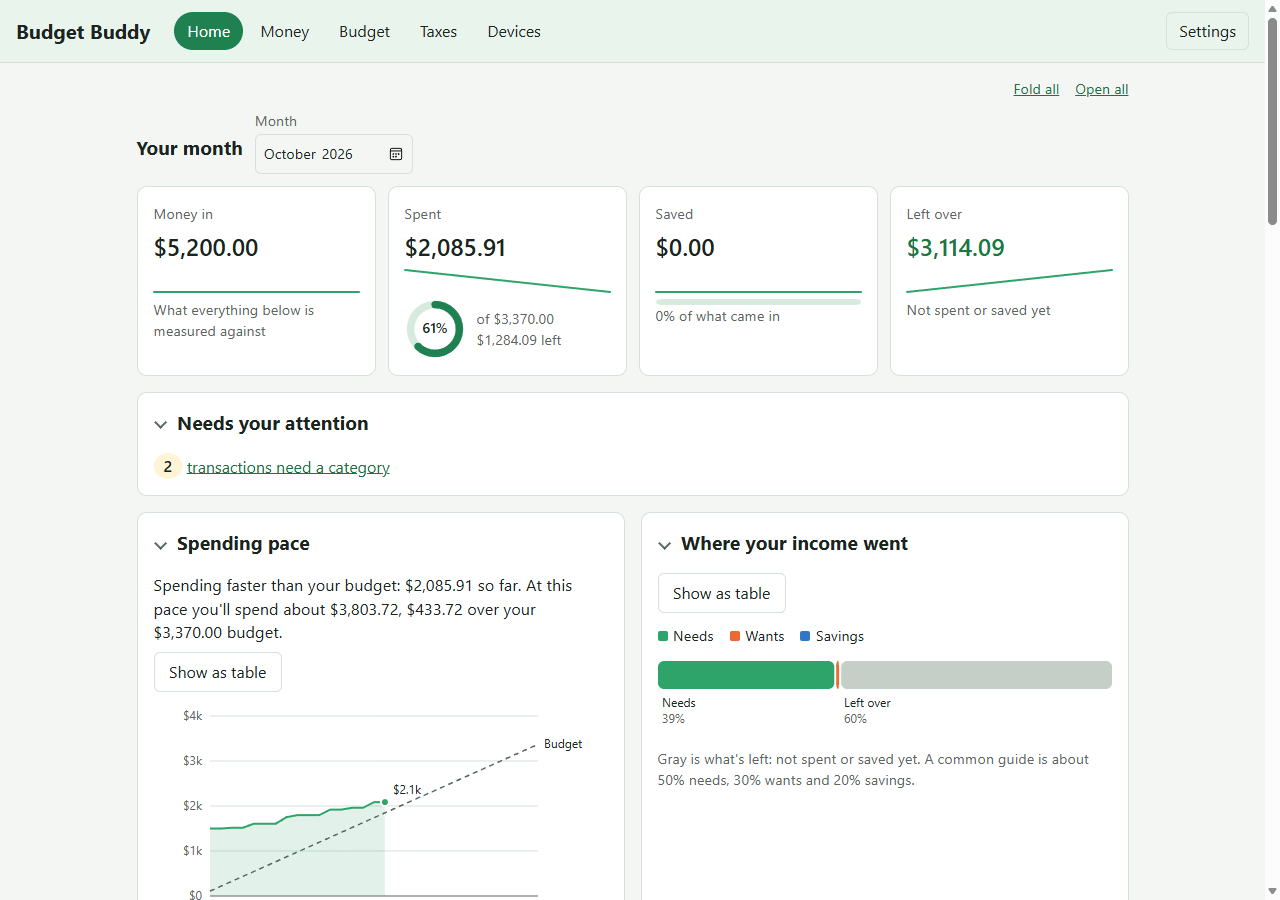
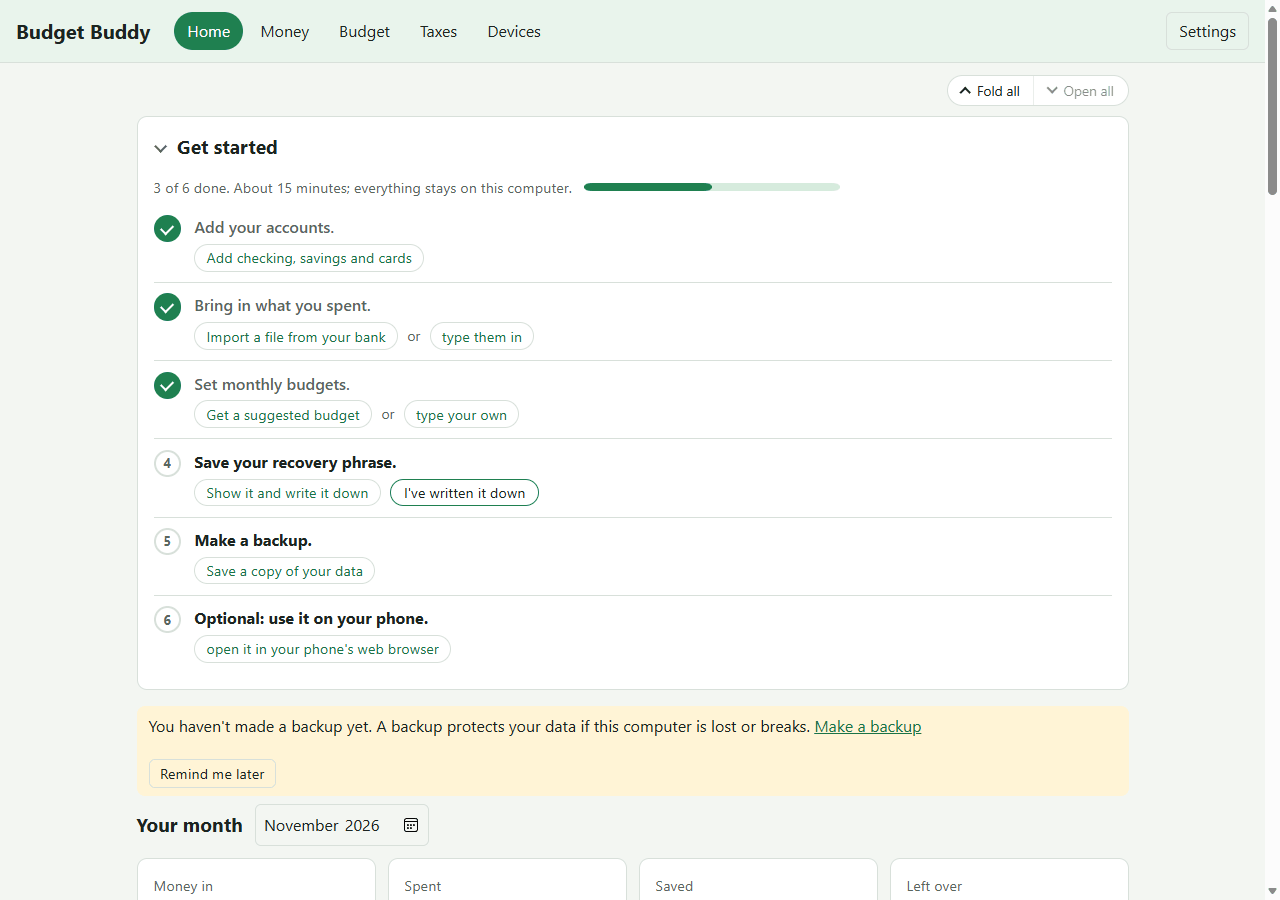
Retake the user guide pictures and the README picture
What: all 17 pictures in docs/guide/images and the README's docs/showcase/images/home.png were retaken
from the demo data (made-up) with scripts/dev/check_pages.py; the script gains BB_SHOTS_EXTRA (Devices
pages), BB_SHOTS_HEIGHT and BB_SHOTS_FOLD. A label standing directly in a card now has a margin below it
(the Backups restore box had its button touching the file box).
Why: the pictures showed the old dashboard look.
How to test: py scripts/dev/check_public.py; BB_SHOTS_EXTRA="phone,computers,backups" py scripts/dev/check_pages.py --screenshots <folder>.
Reviewers: none needed (pictures are from made-up demo data only).

diff --git a/dashboard/app.css b/dashboard/app.css
@@ -126,6 +126,8 @@ input, select, textarea { font: inherit; padding: 0.45rem; border: 1px solid var
 button { font: inherit; padding: 0.45rem 0.9rem; border-radius: 6px; cursor: pointer; background: none;
   color: var(--text); border: 1px solid var(--line); }
 input[type="checkbox"], input[type="radio"] { accent-color: var(--accent); }
+/* A field standing directly in a card (not in a form) keeps some room before what follows it. */
+.card > label, details.fold > label { margin-bottom: 0.6rem; }
 /* A group of tick boxes (Setup's starter budget): a rounded box with its title as a pill, the boxes in columns. */
 fieldset { display: grid; grid-template-columns: repeat(auto-fill, minmax(11rem, 1fr)); gap: 0.4rem 1rem; margin: 0 0 0.75rem;
   padding: 0.6rem 0.9rem 0.8rem; border: 1px solid var(--line); border-radius: 8px; }

diff --git a/scripts/dev/check_pages.py b/scripts/dev/check_pages.py
@@ -11,6 +11,8 @@ With --screenshots, it also saves the top of each page as <page>.png in that fol
 guide's pictures (docs/guide/images/) are made this way, from made-up demo data only, and made
 smaller afterwards with shrink_png.py. Set BB_SHOTS_FULL=1 to save the whole page with every card opened,
 to review layout and styling (what the UI review of 2026-11 used).
+BB_SHOTS_EXTRA="phone,computers,backups" adds the Devices pages; BB_SHOTS_HEIGHT sets the window height (900).
+BB_SHOTS_FOLD="Get started" shows the named cards folded.
 
 Your real data and your own test data are never touched: everything lives in a new temporary
 folder (with the encryption key in memory only) that is deleted afterwards. Uses the test port,

diff --git a/CHANGELOG.md b/CHANGELOG.md
@@ -1,6 +1,7 @@
 # Changelog
 
 ## Unreleased
+- The user guide pictures (all 17) and the README picture were retaken to match the new look. A field standing directly in a card (the restore box on Backups) now has a little room before its button. For developers: `check_pages.py` can also photograph the Devices pages (`BB_SHOTS_EXTRA`), set the window height (`BB_SHOTS_HEIGHT`) and show chosen cards folded (`BB_SHOTS_FOLD`).
 - Dashboard polish: Home's **Get started** is a numbered checklist with a progress bar (a tick in a green circle when a step is done, its links as small pills), and **Needs your attention** is a list of rows you can click anywhere on. Form fields now line up even when one label is longer than the others (Import files, Add a donation, Match your bank's balance and the rest), every box and form button is the same height, dates never split over two lines, the Setup tick-box groups are rounded boxes in columns, "Optional" and "Done" are small tags, and tick boxes use the app's green. A few long field labels were shortened (the explanation moved into the text above the form).
 - Home: "Your month" and its month box now sit on the same middle line, and the "Last file imported ... Import a newer one" sentence is a small pill (date and how long ago, yellow after a month) with an **Import a file** button.
 - Home: the extra "Month" label above the month box is gone. "Fold all" and "Open all" are now one small rounded two-part control with a chevron on each side, instead of two underlined links.
